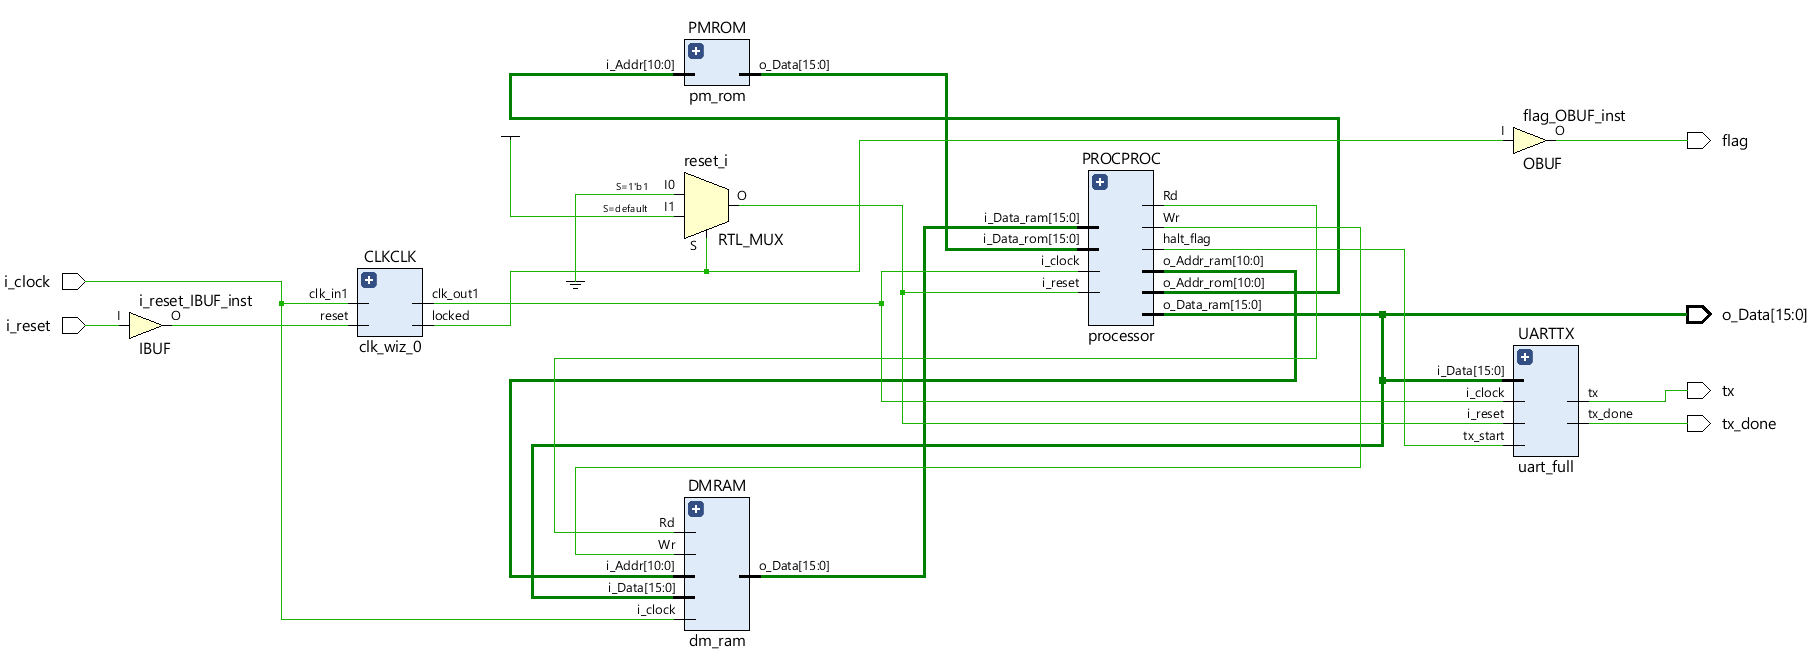
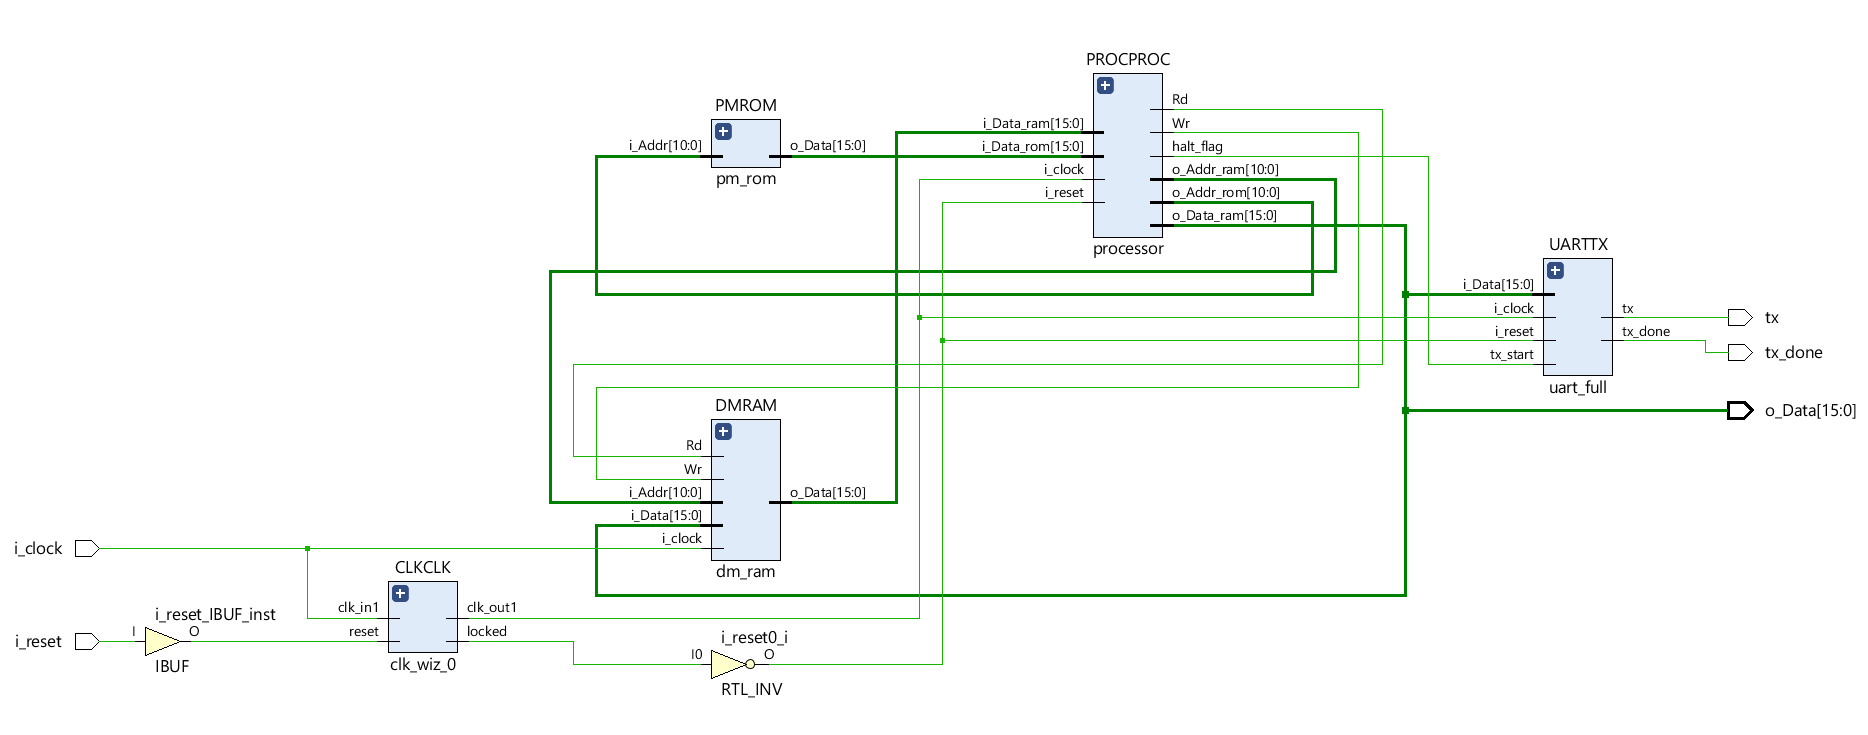
Informe terminado.

diff --git a/README.md b/README.md
@@ -87,13 +87,17 @@ Es el mismo modulo implementado en el TP2 aunque sin el receptor. El Baudrate es
 
 Se usa este modulo para tener mayor control en la señal de clock que va a ingresar a los modulos. El parametro que se especifico fue solamente la frecuencia del clock pero se puede jugar con el jitter, los delays, etc. Se setea la salida a 50MHz.
 
+Como necesita un tiempo para estabilizar, hay una señal llamada locked que señala cuando la salida del Clock Wizard es estable. Se toma esta señal como un reset para el resto del circuito. En este caso tarda mas o menos 500 ns.
+
+<img src="imagenes/lockedCW.png" alt="Clocking Wizard" width="800"/>
+
 ## Testing
 
 Se hicieron varios testbench para probar la funcionalidad de cada modulo en particular. Todos estos tienen una metodologia no automatizada y son bastante simples de entender. Luego se realizo un testbench del sistema completo.
 
 ### Testing completo
 
-Para el test completo se redujeron los tamaños de las memorias por simplicidad. El programa que se utilizo para la prueba es el siguente.
+Para el test completo se redujeron los tamaños de las memorias por simplicidad. Ambas tienen solo 9 lugares (son paramatrizables). El programa que se utilizo para la prueba es el siguente.
 
 ``` v
 0001100000000100 //LDI 4
@@ -112,22 +116,22 @@ El dato que se deberia enviar al ultimo es h0006.
 
 ### Simulación de comportamiento
 
-EXPLICARLA.
+Se puede observar como las instrucciones son terminadas en un solo ciclo de Clock. En el flanco de subida se ingresa la nueva instruccion y los valores de las memorias; y en el flanco de bajada se actualiza el valor del acumulador (o_Data). Ademas, se denota que el acumulador actualiza sus valores correctamente segun lo que esta en el programa de prueba.
 
-<img src="imagenes/SimulacionComportamiento.png" alt="Simulacion del comportamiento" width="800"/>
+<img src="imagenes/SimBehavInst.png" alt="Simulacion del comportamiento, monociclo" width="800"/>
+
+Aqui se puede visualizar que, una vez terminado el procesamiiento del programa entero y se llega a la instruccion HALT, se manda la se;al tx_done al transmisor UART y este transmite el valor del acumulador (en este caso un h0006).
+
+<img src="imagenes/SimBehavUART.png" alt="Simulacion del comportamiento, UART" width="800"/>
 
 ### Simulación Post-Sintesis con tiempo
 
-EXPLICAR
+Se ve el mismo resultado del procesamiento de instruccion. Hay mas ruido en la entrada de datos que vienen desde la ROM pero, como todo esta sincronizado al clock y los cambios del pc y acumuludar se hacen en el flanco de bajada donde los datos ya estan estables, no hay errores en los calculos. Se obvio la transmision de la señal por el UART ya que toma mucho mas tiempo en comparacion a los otros procesos.
 
-<img src="imagenes/SimulacionTiming.png" alt="Simulacion con timing" width="800"/>
+<img src="imagenes/SimTim.png" alt="Simulacion con timing" width="800"/>
 
 ### Analisis de Timing
 
-Analisis. Explicar los clocks.
+El analisis de Timing es favorable.
 
 <img src="imagenes/AnalisisTiming.png" alt="Analisis de timing" width="800"/>
-
-### Errores encontrados
-
-Contar los erroes.
